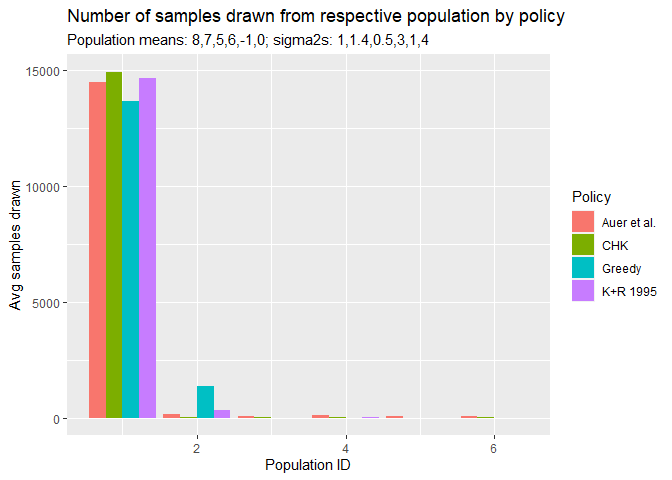
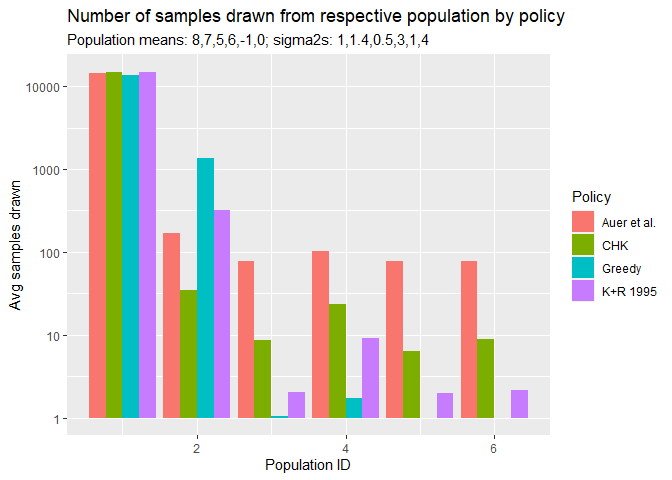
changed to log scale on bar chart in 02

diff --git a/ReinforcementLearning/02-ucb-policies-mab.md b/ReinforcementLearning/02-ucb-policies-mab.md
@@ -621,6 +621,7 @@ ggplot(mapping = aes(x = rep(c(1:6), 4),
                         rep("Auer et al.", 6),
                         rep("K+R 1995", 6),
                         rep("Greedy", 6))), position = "dodge") +
+  scale_y_log10() +
   labs(x = "Population ID", y = "Avg samples drawn",
        fill = "Policy",
        title = "Number of samples drawn from respective population by policy",
